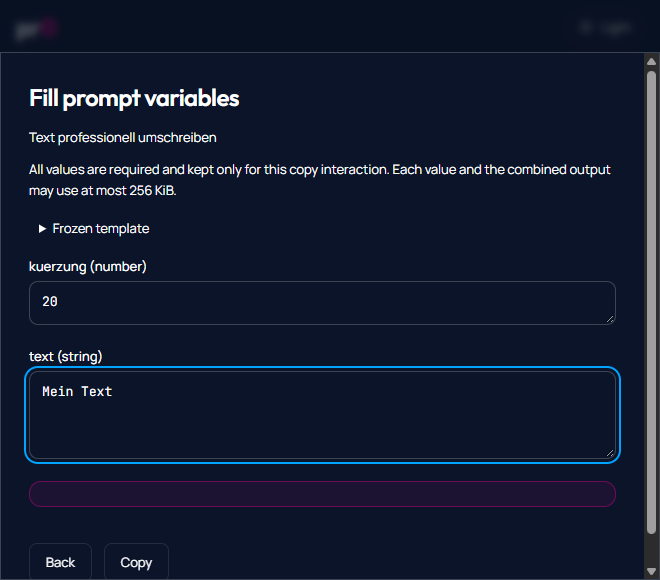
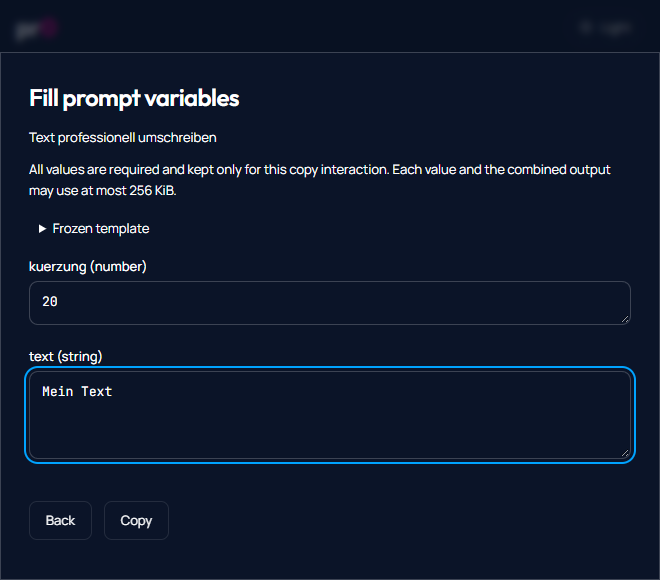
Keep compact variable forms free of empty alerts

diff --git a/packages/ui/src/styles/wayfinder.css b/packages/ui/src/styles/wayfinder.css
@@ -622,3 +622,7 @@
 .wf-detail > article > h3 {
   font-size: 24px;
 }
+
+.wf [role="alert"]:empty {
+  display: none;
+}
